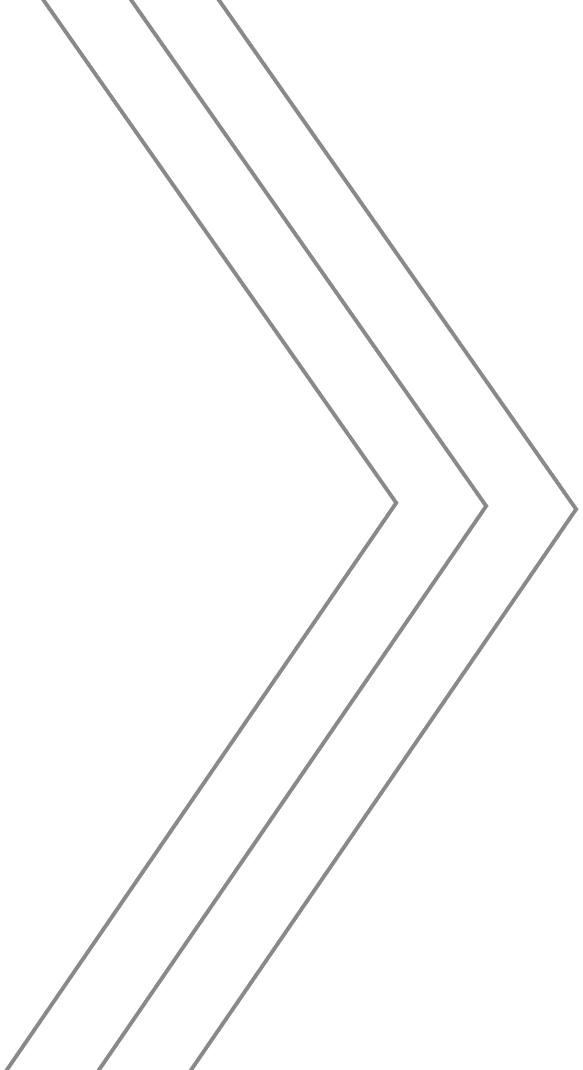
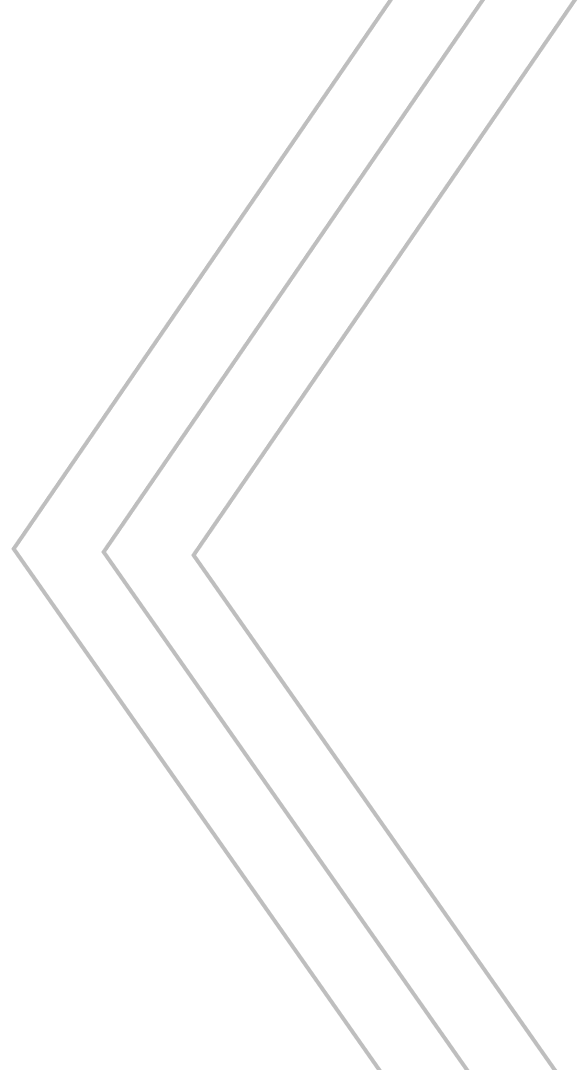
Fix listras

diff --git a/css/style.css b/css/style.css
@@ -202,7 +202,7 @@ ul { list-style: none; margin: 0; padding: 0; }
 
 /* Hero da Home: foto em tela cheia, logo à esquerda, chevron à direita */
 .hero--home {
-  min-height: 640px;
+  min-height: 623px;
   align-items: center;
 }
 /* largura fixa e igual à do chevron das seções abaixo, para as linhas se
@@ -210,7 +210,7 @@ ul { list-style: none; margin: 0; padding: 0; }
 .hero--home .hero__chevron {
   position: absolute;
   bottom: 0;
-  right: 0;
+  right: 71px;
   width: var(--chevron-w);
   height: auto;
   z-index: 1;
@@ -222,8 +222,8 @@ ul { list-style: none; margin: 0; padding: 0; }
   width: 100%;
 }
 .hero__logo {
-  width: min(38vw, 420px);
-  margin-left: 6%;
+    width: min(38vw, 520px);
+    margin-left: 15%;
 }
 .hero__dots {
   position: absolute;
@@ -233,17 +233,29 @@ ul { list-style: none; margin: 0; padding: 0; }
   color: rgba(255,255,255,0.6);
   letter-spacing: 6px;
 }
+.right_listra_cinza{
+  right: 311px !important;
+}
+.listras-orcamento-home{
+  right: 114px !important;
+}
+
 @media (max-width: 900px) {
-  .hero--home { min-height: 420px; }
+  .hero--home { min-height: 368px; }
+  .hero--home .hero__chevron {right: 15px;}
   .hero__logo { width: min(55vw, 320px); margin-left: 20px; }
   .hero--home .hero__chevron { opacity: 0.7; }
+  .right_listra_cinza { right: 160px !important;}
+  .section-divider{ height: 27px !important;}
+  .section--light { height: 367px !important;}
+  .listras-orcamento-home { right: 45px !important;}
 }
 @media (max-width: 600px) {
   :root { --chevron-w: 200px; }
 }
 
 /* ---------- Sections genéricas ---------- */
-.section { position: relative; padding: 90px 0; }
+.section { position: relative; padding: 83px 0; }
 .section--light { background: var(--color-placeholder-light); }
 .section--dark { background: var(--color-gray); color: var(--color-white); }
 .section--yellow { background: var(--color-yellow); }
@@ -302,7 +314,7 @@ ul { list-style: none; margin: 0; padding: 0; }
 .stripe-overlay {
   position: absolute;
   top: 0;
-  right: 0;
+  right: 0px;
   width: var(--chevron-w);
   height: auto;
   z-index: 0;

diff --git a/index.html b/index.html
@@ -42,7 +42,7 @@
 
   <!-- SERVIÇOS -->
   <section class="section section--light" id="servicos">
-    <img class="stripe-overlay stripe-overlay--gray" src="assets/img/chevron-gray-right.png" alt="" aria-hidden="true">
+    <img class="stripe-overlay stripe-overlay--gray right_listra_cinza" src="assets/img/chevron-gray-right.png" alt="" aria-hidden="true">
     <div class="container section__content">
       <div class="servicos-combo">
         <div class="servicos-card">
@@ -61,7 +61,7 @@
   <!-- ORÇAMENTO -->
   <section class="section section--dark" id="orcamento">
     <div class="section__photo-bg" aria-hidden="true"></div>
-    <img class="stripe-overlay stripe-overlay--yellow" src="assets/img/chevron-yellow-right.png" alt="" aria-hidden="true">
+    <img class="stripe-overlay stripe-overlay--yellow listras-orcamento-home" src="assets/img/chevron-yellow-right.png" alt="" aria-hidden="true">
     <p class="section__bg-title section__bg-title--left display-title display-title--yellow">ORÇAMENTO</p>
     <div class="container section__content">
       <div class="orcamento-grid">
